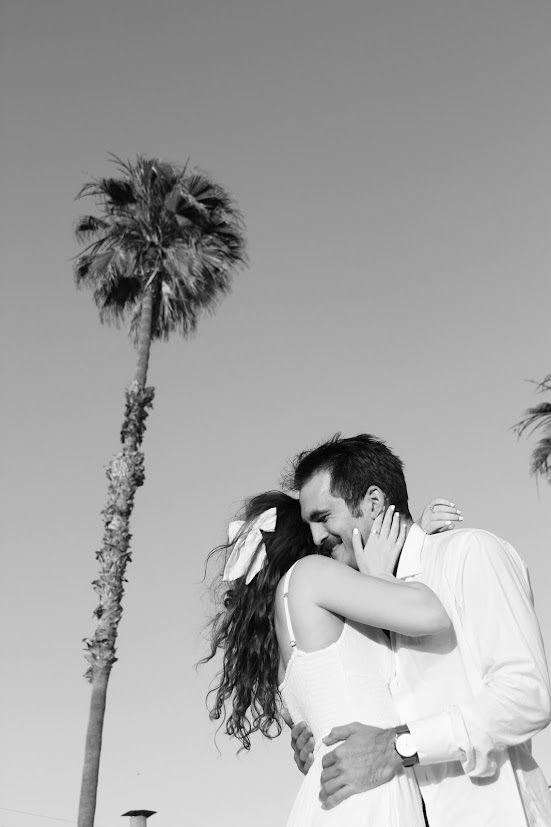
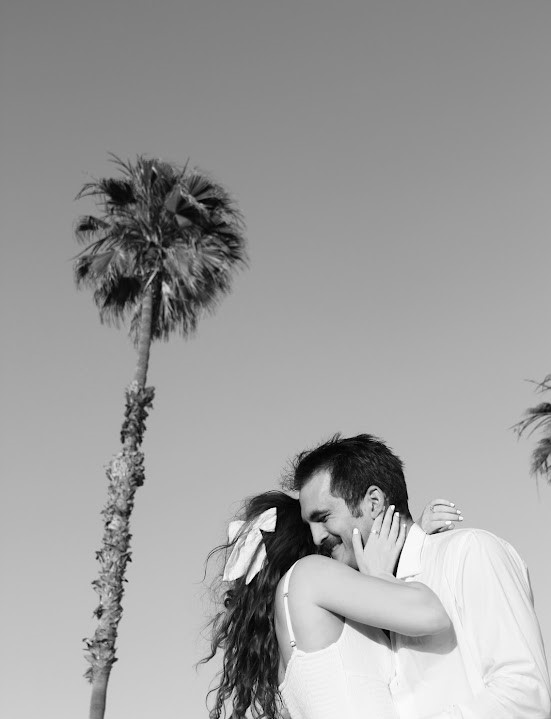
image fixes + borders

Changed region(s): [[0.3394, 0.4284, 1.0, 1.0], [0.1234, 0.1836, 0.4628, 1.0]]

diff --git a/index.html b/index.html
@@ -22,13 +22,15 @@
             <li><a href="#schedule">Schedule</a></li>
             <li><a href="#story">Our Story</a></li>
             <li><a href="#tidbits">Tidbits</a></li>
+            <li><a href="#info">Accomodations + Transport</a></li>
             <li><a href="#QA">FAQ</a></li>
+            <li><a href="#main">RVSP</a></li>
         </ul>
     </nav>
     <div class="row cover" id="main">
         <div class="center">
             <h1 class="cormorant-header">Vita & Mason</h1>
-            <h4 class="cormorant-middle">We can't wait to share this special day with you!</h4>
+            <p class="cormorant-text">We can't wait to share this special day with you!</p>
             <button type="button" class="btn btn-outline-light">RVSP</button>
         </div>
         <img src="images/proposal_lisbon.jpg" alt="lisbon">
@@ -45,7 +47,7 @@
     </div>
 
     <div class="row schedule flex-nowrap" id="schedule">
-        <div class="event col-md-8">
+        <div class="event col-md-10">
             <div class="row">
                 <!-- Image Section -->
                 <div class="col-md-4">
@@ -61,7 +63,7 @@
                 </div>
             </div>
         </div>
-        <div class="event col-md-8">
+        <div class="event col-md-10">
             <div class="row">
                 <!-- Image Section -->
                 <div class="col-md-4">
@@ -79,7 +81,7 @@
                 </div>
             </div>
         </div>
-        <div class="event col-md-8">
+        <div class="event col-md-10">
             <div class="row">
                 <!-- Image Section -->
                 <div class="col-md-4">
@@ -97,7 +99,7 @@
                 </div>
             </div>
         </div>
-        <div class="event col-md-8">
+        <div class="event col-md-10">
           <div class="row">
               <!-- Image Section -->
               <div class="col-md-4">
@@ -115,7 +117,7 @@
               </div>
           </div>
       </div>
-      <div class="event col-md-8">
+      <div class="event col-md-10">
         <div class="row">
             <!-- Image Section -->
             <div class="col-md-4">
@@ -134,30 +136,32 @@
     </div>
         
     </div>
-    <div class="row story" style="margin: auto;" id="story">
-      <div class="col-md-1"></div>
-        <div class="col-md-4 image">
-            <div>
-                <img class="img-fluid" src="images/story.jpg" alt="">
-            </div>
-        </div>
-        <div class="col-md-6">
-            <h4>The Story of Us</h4>
-            <p>In 2017, Mason visited the Tel Aviv Google office. While he was there, he sent an office-wide email asking for if anyone had any suggestions for visitors. He was overwhelmed with responses and had to turn people down from hanging out!
-
-                Fast forward one year later, Mason was planning on spending the summer in Seattle, so he decided to chase after repeat-success and emailed the Seattle office looking for suggestions. He received exactly one (1) response from the only Israeli in the office: Vita. <br> <br>
-                
-                This led to Vita and Mason meeting for coffee in the office. Vita and Mason had, unbeknownst to each other, both signed up to work for the same programming summer camp (CSSI). Vita was a TA for the students, while Mason was their RA, and Vita shared her list of recommendations for Seattle with Mason (he didn't visit any).
-                
-                They found out both had plans to be in Europe later that year during the same week, and decided they would convince their friends to meet in the middle and merge friend group trips. All the friends bailed, but Mason and Vita's first time hanging out 1:1 was in Portugal! And the rest is history...</p>
-        </div>
+    <div class="story-background">
+      <div class="row story" style="margin: auto;" id="story">
         <div class="col-md-1"></div>
+          <div class="col-md-4 image">
+              <div>
+                  <img class="img-fluid" src="images/story.jpg" alt="">
+              </div>
+          </div>
+          <div class="col-md-6">
+              <h4>The Story of Us</h4>
+              <p>In 2017, Mason visited the Tel Aviv Google office. While he was there, he sent an office-wide email asking for if anyone had any suggestions for visitors. He was overwhelmed with responses and had to turn people down from hanging out!
+  
+                  Fast forward one year later, Mason was planning on spending the summer in Seattle, so he decided to chase after repeat-success and emailed the Seattle office looking for suggestions. He received exactly one (1) response from the only Israeli in the office: Vita. <br> <br>
+                  
+                  This led to Vita and Mason meeting for coffee in the office. Vita and Mason had, unbeknownst to each other, both signed up to work for the same programming summer camp (CSSI). Vita was a TA for the students, while Mason was their RA, and Vita shared her list of recommendations for Seattle with Mason (he didn't visit any).
+                  
+                  They found out both had plans to be in Europe later that year during the same week, and decided they would convince their friends to meet in the middle and merge friend group trips. All the friends bailed, but Mason and Vita's first time hanging out 1:1 was in Portugal! And the rest is history...</p>
+          </div>
+          <div class="col-md-1"></div>
+      </div>
     </div>
     <div class="row tidbits" id="tidbits">
       <h4>Tidbits</h4>
       <div class="height"></div>
-        <div class="col-md-1"></div>
-        <div class="col-md-5">
+        <div class="col-lg-1"></div>
+        <div class="col-lg-5">
             <h4>Who made the first move? How?</h4>
   <p>As soon as Mason left Portugal, he messaged Vita that he found (and booked) some flights to come visit her in Seattle. That was the beginning of monthly flights for both Vita and Mason between SF and Seattle!</p>
 
@@ -165,34 +169,34 @@
   <p>Vita visited Mason in San Francisco. One of Mason's friends, Max (hi Max!) met Vita and said "oh so you're Mason's girlfriend I presume?" to which Vita answered "no" but Mason answered "yes".</p>
 
         </div>
-        <div class="col-md-5 image">
+        <div class="col-lg-5 image">
           <img class="img-fluid" src="images/tidbits.jpg" alt="">
 
             <div>
             </div>
         </div>
-        <div class="col-md-1"></div>
+        <div class="col-lg-1"></div>
 
     </div>
     <div class="row tidbits" id="tidbits">
-      <div class="col-md-1 order-md-1"></div>
-      <div class="col-md-5 order-md-3">
+      <div class="col-lg-1 order-lg-1"></div>
+      <div class="col-lg-6 order-lg-3">
 <h4>Did Vita really not know Mason was proposing in Portugal?</h4>
 <p>Mason had a really elaborate plan that involved himself, Vita's entire family, and most of her friends lying to her for several months. Vita thought Mason would propose in Portugal, so he immediately contacted everyone and told them to pretend as if they were doing a bad job of keeping the proposal secret, and that the fake proposal would be over THANKSGIVING.</p>
 
 <p>The day of the proposal, the scheduled plans changed so often Vita thought there was no way Mason could be proposing given all the changes. He didn't even have tickets to the park where the proposal would happen until an hour before!</p>
       </div>
-      <div class="col-md-5 image order-md-2">
-        <img class="img-fluid" src="images/palm-VM.jpg" alt="">
+      <div class="col-lg-4 image order-lg-2">
+        <img class="img-fluid" src="images/palm-VM.jpg" alt="" style="object-position: bottom;">
 
           <div>
           </div>
       </div>
-      <div class="col-md-1 order-md-4"></div>
+      <div class="col-lg-1 order-lg-4"></div>
 
   </div>
 
-  <div class="row info">
+  <div class="row info" id="info">
     
     <h4>Accomodations + Travel
     </h4>
@@ -211,7 +215,6 @@
       <p>Ubers and Lyfts are the easiest way to get around San Diego, and there are plenty around!
 
         For those who prefer, you can also rent a car from SAN airport</p>
-        <a href="https://www.sandiego.gov/">sandiego.gov</a>
     </div>
   </div>
     

diff --git a/css/style.css b/css/style.css
@@ -204,6 +204,7 @@ div.day {
     /* white-space: initial; */
     white-space: nowrap;
     flex: 0 0 auto; /* Prevent columns from shrinking */
+    min-width: none;
 }
 
 .schedule .event .row .col-md-8 {
@@ -228,39 +229,6 @@ div.day {
     color: #b77e1c;
 }
 
-/* Responsive layout for smaller screens */
-@media (max-width: 768px) {
-    .schedule {
-        flex-direction: column; /* Stack events vertically */
-        width: 100%;
-    }
-    .schedule .event {
-        flex: 1 1 100%; /* Full width for each event */
-        flex-direction: column; /* Stack image and text vertically */
-        margin-top: 10px;
-    }
-    .schedule .event .row {
-        flex-direction: column; /* Stack image and text vertically */
-        align-items: center;
-    }
-    .schedule .event .row .col-md-4 {
-        flex: 0 0 auto; /* Adjust image dimensions */
-        width: 100%;
-        height: auto;
-    }
-    .schedule .event div div img {
-        width: 100%; /* Full width image */
-        height: 50vh;
-        margin-bottom: 10px;
-        object-position: top;
-    }
-    .schedule .event .row .col-md-8 {
-        flex: 1;
-        text-align: center; /* Optional: Center-align text for smaller screens */
-        padding: 10px 0;
-    }
-}
-
 /* FAQ */
 
 .accordion, .accordion-button, .accordion-body {
@@ -274,10 +242,15 @@ div.day {
 
 /* story */
 
+.story-background {
+    background-color: rgb(221, 239, 255);
+}
+
 .story {
     color: black;
-    background-color: rgb(221, 239, 255);
     height: fit-content;
+    width: 80%;
+    margin: auto;
 }
 
 .story div {
@@ -287,7 +260,7 @@ div.day {
 .story div img {
 
     object-fit: cover;
-    height: 100%;
+    min-height: 100vh;
     object-position: bottom; /* Ensures the top of the image is prioritized */
 
 }
@@ -350,9 +323,70 @@ div.day {
     margin: auto;
     height: 100%;
     padding: 10px;   
-    height: 250px;
+    /* height: 250px; */
 }
 
 .info h4 {
     margin-bottom: 30px;
+}
+
+
+/* Responsive layout for smaller screens */
+@media (max-width: 768px) {
+    .schedule {
+        flex-direction: column; /* Stack events vertically */
+        width: 100%;
+    }
+    .schedule .event {
+        flex: 1 1 100%; /* Full width for each event */
+        flex-direction: column; /* Stack image and text vertically */
+        margin-top: 10px;
+    }
+    .schedule .event .row {
+        flex-direction: column; /* Stack image and text vertically */
+        align-items: center;
+    }
+    .schedule .event .row .col-md-4 {
+        flex: 0 0 auto; /* Adjust image dimensions */
+        width: 100%;
+        height: auto;
+    }
+    .schedule .event div div img {
+        width: 100%; /* Full width image */
+        height: 50vh;
+        margin-bottom: 10px;
+        object-position: top;
+    }
+    .schedule .event .row .col-md-8 {
+        flex: 1;
+        text-align: center; /* Optional: Center-align text for smaller screens */
+        padding: 10px 0;
+    }
+
+    .schedule .event .row {
+        border-top: #b77e1c 1px solid;
+        border-bottom: #b77e1c 1px solid;
+        border-left: none;
+        border-right: none;
+    }
+
+    
+    .info {
+        border-top: #b77e1c 1px solid;
+        border-bottom: #b77e1c 1px solid;
+        border-left: none;
+        border-right: none; 
+    } 
+
+    .info div {
+        margin: auto;
+        height: 100%;
+        padding: 10px;   
+        height: auto;
+    }
+
+    .story div img {
+        min-height: 50vh;
+    }
+    
 }
